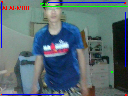
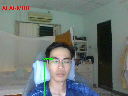
remove draw points

diff --git a/yolodetect.py b/yolodetect.py
@@ -7,11 +7,11 @@ import datetime
 import threading
 
 
-def isInside(points, centroid):
-    polygon = Polygon(points)
-    centroid = Point(centroid)
-    print(polygon.contains(centroid))
-    return polygon.contains(centroid)
+# def isInside(points, centroid):
+#     polygon = Polygon(points)
+#     centroid = Point(centroid)
+#     print(polygon.contains(centroid))
+#     return polygon.contains(centroid)
 
 
 class YoloDetect():
@@ -42,20 +42,20 @@ class YoloDetect():
         layer_names = self.model.getLayerNames()
         self.output_layers = [layer_names[i - 1] for i in self.model.getUnconnectedOutLayers()]
 
-    def draw_prediction(self, img, class_id, x, y, x_plus_w, y_plus_h, points):
+    def draw_prediction(self, img, class_id, x, y, x_plus_w, y_plus_h):
         label = str(self.classes[class_id])
         color = (0, 255, 0)
         cv2.rectangle(img, (x, y), (x_plus_w, y_plus_h), color, 2)
         cv2.putText(img, label, (x - 10, y - 10), cv2.FONT_HERSHEY_SIMPLEX, 0.5, color, 2)
 
-        # Tinh toan centroid
-        centroid = ((x + x_plus_w) // 2, (y + y_plus_h) // 2)
-        cv2.circle(img, centroid, 5, (color), -1)
+        # # Tinh toan centroid
+        # centroid = ((x + x_plus_w) // 2, (y + y_plus_h) // 2)
+        # cv2.circle(img, centroid, 5, (color), -1)
 
-        if isInside(points, centroid):
-            img = self.alert(img)
-
-        return isInside(points, centroid)
+        # if isInside(points, centroid):
+        img = self.alert(img)
+        return True
+        # return isInside(points, centroid)
 
     def alert(self, img):
         cv2.putText(img, "ALARM!!!!", (10, 50), cv2.FONT_HERSHEY_SIMPLEX, 1, (0, 0, 255), 2)
@@ -68,7 +68,7 @@ class YoloDetect():
             thread.start()
         return img
 
-    def detect(self, frame, points):
+    def detect(self, frame):
         blob = cv2.dnn.blobFromImage(frame, self.scale, (416, 416), (0, 0, 0), True, crop=False)
         self.model.setInput(blob)
         outs = self.model.forward(self.output_layers)
@@ -95,13 +95,13 @@ class YoloDetect():
                     boxes.append([x, y, w, h])
 
         indices = cv2.dnn.NMSBoxes(boxes, confidences, self.conf_threshold, self.nms_threshold)
-
         for i in indices:
             box = boxes[i]
             x = box[0]
             y = box[1]
             w = box[2]
             h = box[3]
-            self.draw_prediction(frame, class_ids[i], round(x), round(y), round(x + w), round(y + h), points)
+            self.draw_prediction(frame, class_ids[i], round(x), round(y), round(x + w), round(y + h))
+            print(round(x), round(y), round(x + w), round(y + h))
 
         return frame

diff --git a/new_main.py b/new_main.py
@@ -1,0 +1,49 @@
+import cv2
+import numpy as np
+from imutils.video import VideoStream
+from yolodetect import YoloDetect
+
+video = VideoStream(src=0).start()
+# # Chua cac diem nguoi dung chon de tao da giac
+# points = []
+
+# new model Yolo
+model = YoloDetect()
+
+# def handle_left_click(event, x, y, flags, points):
+#     if event == cv2.EVENT_LBUTTONDOWN:
+#         points.append([x, y])
+
+# def draw_polygon(frame, points):
+#     for point in points:
+#         frame = cv2.circle(frame, (point[0], point[1]), 5, (0, 0, 255), -1)
+#
+#     frame = cv2.polylines(frame, [np.int32(points)], False, (255, 0, 0), thickness=2)
+#     return frame
+
+detect = False
+
+while True:
+    frame = video.read()
+    frame = cv2.flip(frame, 1)
+
+    # # Ve ploygon
+    # frame = draw_polygon(frame, points)
+
+    if detect:
+        frame = model.detect(frame=frame)
+
+    key = cv2.waitKey(1)
+    if key == ord('q'):
+        break
+    # elif key == ord('d'):
+    #     points.append(points[0])
+    detect = True
+
+    # Hien anh ra man hinh
+    cv2.imshow("Intrusion Warning", frame)
+
+    # cv2.setMouseCallback('Intrusion Warning', handle_left_click, points)
+
+video.stop()
+cv2.destroyAllWindows()

diff --git a/telegram_utils.py b/telegram_utils.py
@@ -1,11 +1,13 @@
 import telegram
+from datetime import datetime
+
 
 def send_telegram(photo_path="alert.png"):
     try:
         my_token = "5811414502:AAGx1n_NTi8ev93uD9cZLXLiRZYsvGJRB5s"
         bot = telegram.Bot(token=my_token)
-        bot.sendPhoto(chat_id="1871882149", photo=open(photo_path, "rb"), caption="Có xâm nhập, nguy hiêm!")
+        bot.sendPhoto(chat_id="1871882149", photo=open(photo_path, "rb"), caption="Alert!!! Intrusion detected at {}.".format(datetime.now().strftime("%H:%M:%S-%d/%m/%Y")))
     except Exception as ex:
-        print("Can not send message telegram ", ex)
+        print("Can not send message telegram at {}".format(datetime.now().strftime("%H:%M:%S-%d/%m/%Y")), ex)
 
-    print("Send sucess")
+    print("Send sucess at {}".format(datetime.now().strftime("%H:%M:%S-%d/%m/%Y")))
